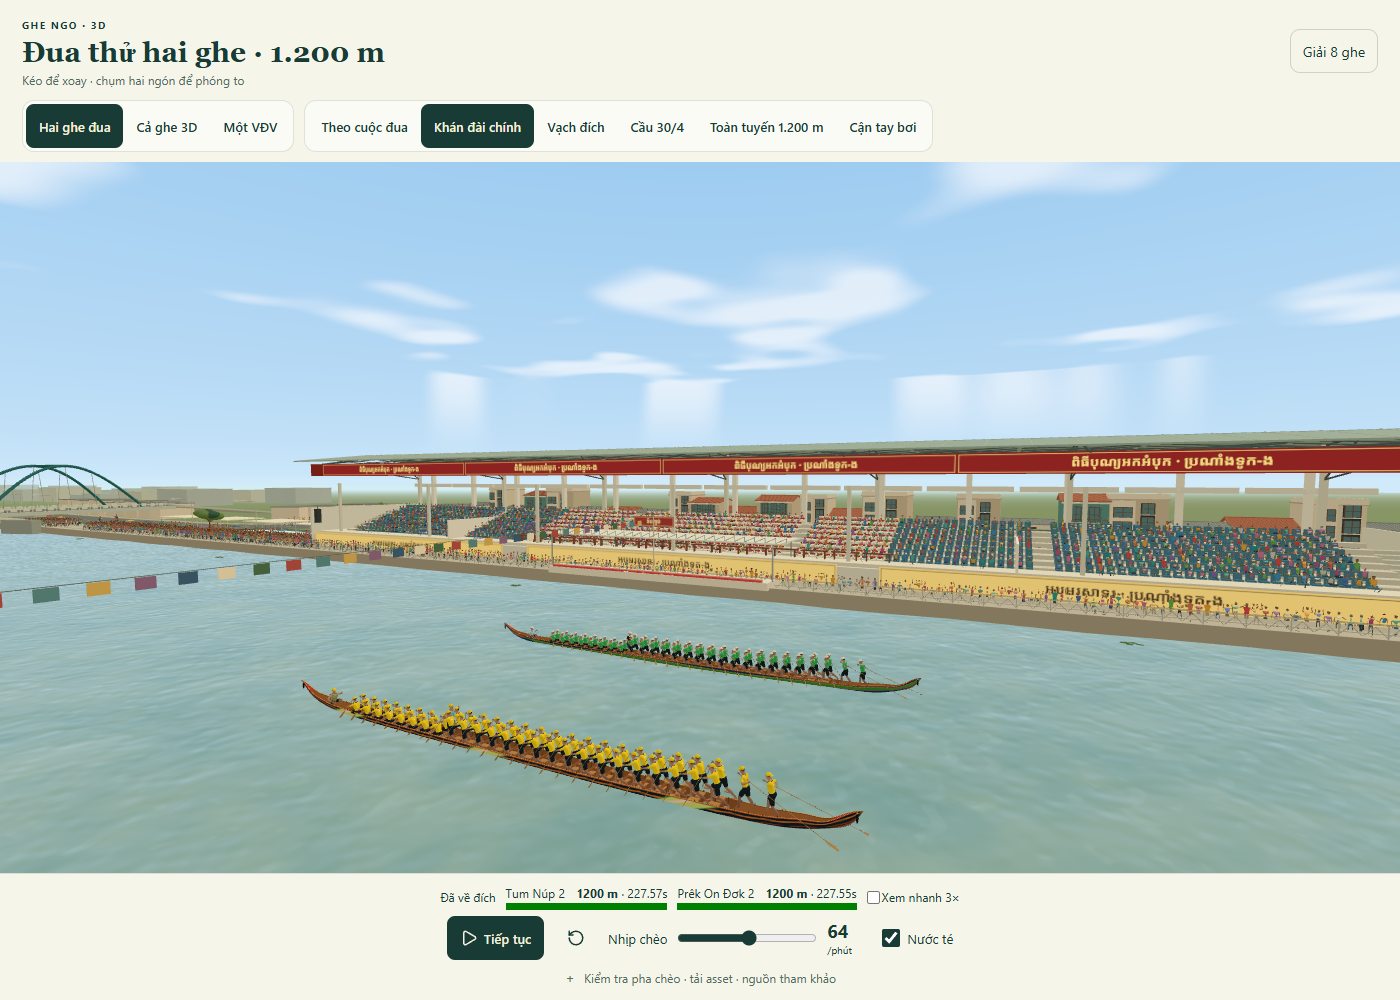
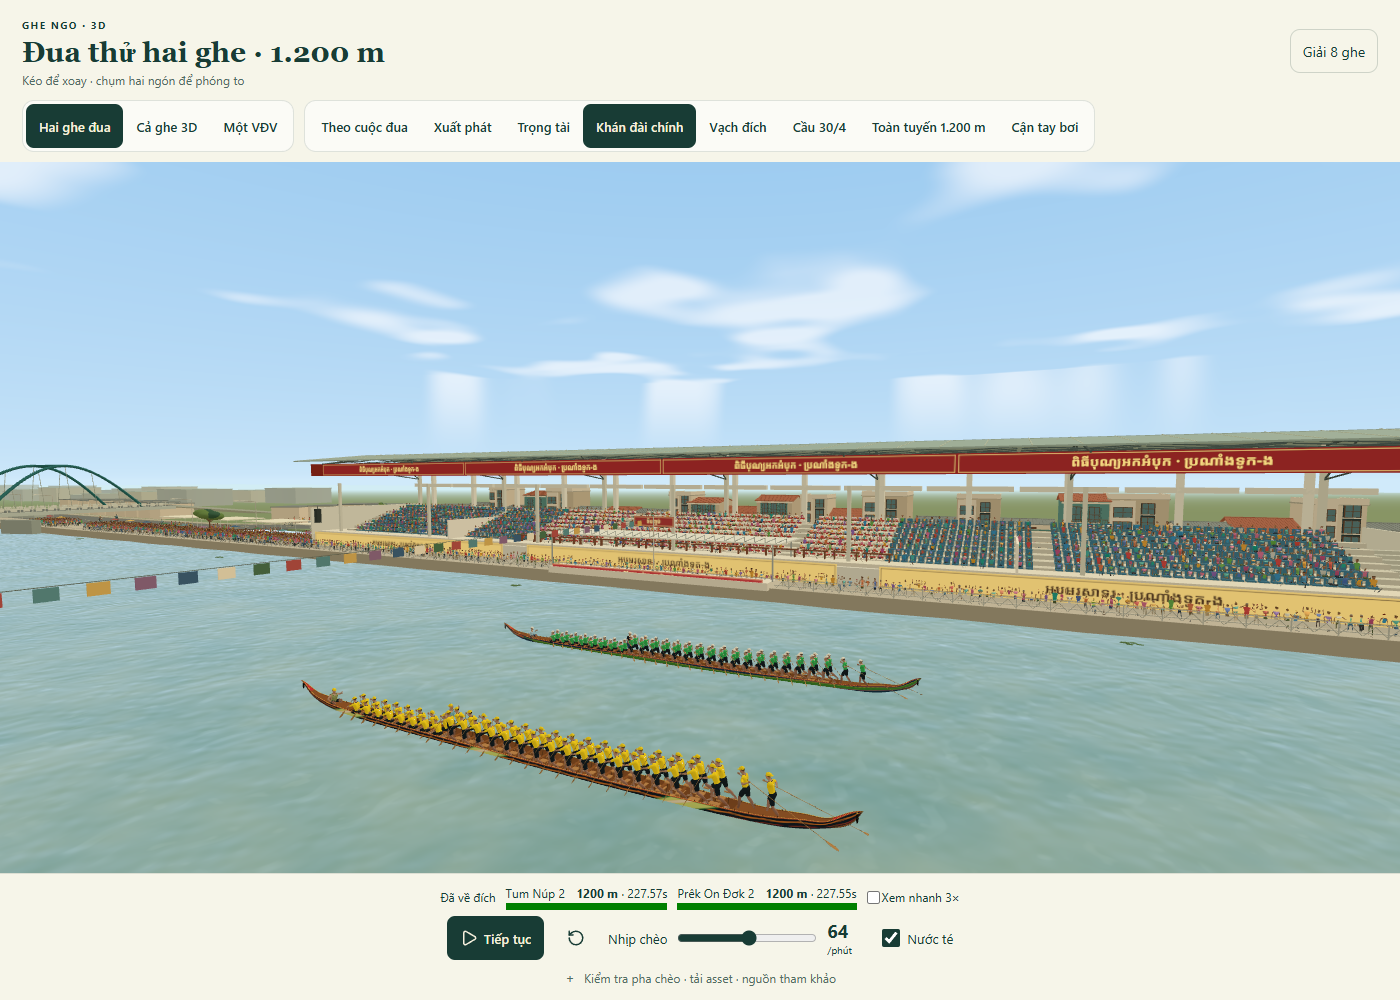
Move upstream bridge beyond start and add Mekong referee cargo boat

Changed region(s): [[0.2764, 0.093, 0.7064, 0.155], [0.7371, 0.124, 0.7679, 0.155]]

diff --git a/src/components/ArtPreview.tsx b/src/components/ArtPreview.tsx
@@ -33,7 +33,7 @@ export function ArtPreview({embedded=false}:{embedded?:boolean}) {
  function togglePlaying(){if(playing)setInspectedPhase(Math.round(clock.current.phase*100));setPlaying(!playing);}
  function inspectPhase(value:number){setPlaying(false);setInspectedPhase(value);clock.current.phase=value/100;}
  async function record(){setRecordError('');setRecording(true);setPlaying(true);try{await runtime.current?.record();}catch(e){setRecordError(e instanceof Error?e.message:String(e));}finally{setRecording(false);}}
- const views=mode==='race'?[['race','Theo cuộc đua'],['stand','Khán đài chính'],['finish','Vạch đích'],['bridge','Cầu 30/4'],['banks','Toàn tuyến 1.200 m'],['crew','Cận tay bơi']]:mode==='athlete'?[['front','Trước'],['side','Ngang'],['back','Sau'],['paddle','Dằm']]:[['boat','Toàn ghe'],['stand','Khán đài chính'],['banks','Hai bờ sông'],['crowd','Khán giả'],['top','Nhìn từ trên'],['crew','Cận tay bơi'],['kneel','Nhóm quỳ'],['bow','Đầu ghe'],['stern','Lái cuối ghe']];
+ const views=mode==='race'?[['race','Theo cuộc đua'],['start','Xuất phát'],['official','Trọng tài'],['stand','Khán đài chính'],['finish','Vạch đích'],['bridge','Cầu 30/4'],['banks','Toàn tuyến 1.200 m'],['crew','Cận tay bơi']]:mode==='athlete'?[['front','Trước'],['side','Ngang'],['back','Sau'],['paddle','Dằm']]:[['boat','Toàn ghe'],['stand','Khán đài chính'],['banks','Hai bờ sông'],['crowd','Khán giả'],['top','Nhìn từ trên'],['crew','Cận tay bơi'],['kneel','Nhóm quỳ'],['bow','Đầu ghe'],['stern','Lái cuối ghe']];
  return <section className={'art-preview'+(embedded?' art-embedded':'')}>
   <header className="art-heading"><div><span className="art-kicker">GHE NGO · 3D</span><h1>{mode==='race'?'Đua thử hai ghe · 1.200 m':mode==='boat'?'Ghe Tum Núp 2 · 54 người':'VĐV Tum Núp 2'}</h1><p>Kéo để xoay · chụm hai ngón để phóng to</p></div><a className="art-back" href={import.meta.env.BASE_URL+'assets/illustrated-v22/race.html?mode=cup'}>Giải 8 ghe</a></header>
   <nav className="art-view-controls" aria-label="Chọn hình ảnh">
@@ -53,7 +53,7 @@ export function ArtPreview({embedded=false}:{embedded?:boolean}) {
     <label className="art-cadence">Chu kỳ <input aria-label="Xem từng pha chèo" disabled={!ready||recording} type="range" min="0" max="100" step="1" value={inspectedPhase} onChange={e=>inspectPhase(Number(e.target.value))}/><strong>{inspectedPhase}%</strong></label>
     <div className="art-control-links"><button disabled={!ready} onClick={()=>runtime.current?.capture()}><Camera size={16}/> Chụp ảnh</button><button disabled={!ready||recording} onClick={record}><Video size={16}/> {recording?'Đang ghi…':'Clip 10s'}</button><a href={import.meta.env.BASE_URL+'assets/athlete-master/athlete-master.glb?sha='+athleteMasterDigest} download><Download size={16}/> GLB VĐV</a></div>
     <p>Ghe dùng chung 8 bộ động tác với bản đua. VĐV đơn dùng cùng bộ động tác đã sửa hướng chèo với cả ghe, gồm cả áo và dằm. Nón, tóc và dằm dựng trong Blender; cơ thể MakeHuman/MPFB CC0. Hai bờ dùng nhân vật Quaternius CC0 có chuyển động và phố 3D. Hai ghe 3D chạy từ xuất phát đến đích đủ 1.200 m. Đây là trận đua thử tự động; giải 8 ghe vẫn ở nút riêng phía trên.</p>
-    <p>Khán đài theo <a href="https://baosoctrang.org.vn/van-hoa-the-thao-du-lich/202411/hao-huc-cho-ngay-khai-hoi-67c01d9/" target="_blank" rel="noreferrer">ảnh thực tế trước và trong khán đài</a>; cự ly theo <a href="https://duaghengo.cantho.gov.vn/uploads/filedinhkem/nvchon_04%20KH-BTC%2009102025%20%28FINAL%29.pdf" target="_blank" rel="noreferrer">kế hoạch giải 2025</a>. Hình dáng theo tư liệu; kích thước công trình và bố trí phố ước lượng. © OpenStreetMap contributors, ODbL, <a href="https://www.openstreetmap.org/copyright" target="_blank" rel="noreferrer">nguồn đường bờ</a>.</p>
+    <p>Khán đài theo <a href="https://baosoctrang.org.vn/van-hoa-the-thao-du-lich/202411/hao-huc-cho-ngay-khai-hoi-67c01d9/" target="_blank" rel="noreferrer">ảnh thực tế trước và trong khán đài</a>; cự ly theo <a href="https://duaghengo.cantho.gov.vn/uploads/filedinhkem/nvchon_04%20KH-BTC%2009102025%20%28FINAL%29.pdf" target="_blank" rel="noreferrer">kế hoạch giải 2025</a>. Toàn cảnh theo <a href="https://vnexpress.net/hang-chuc-nghin-nguoi-xem-dua-ghe-ngo-lon-nhat-mien-tay-4816604.html" target="_blank" rel="noreferrer">ảnh VnExpress bạn cung cấp</a>. Cầu đầu tuyến nằm ngoài cự ly đua; ghe hàng giữa hai làn làm trọng tài xuất phát. Hình dáng theo tư liệu; kích thước công trình và bố trí phố ước lượng. © OpenStreetMap contributors, ODbL, <a href="https://www.openstreetmap.org/copyright" target="_blank" rel="noreferrer">nguồn đường bờ</a>.</p>
     <p><a href="https://thanhnien.vn/chua-tum-nup-doat-cu-dup-vo-dich-ghe-ngo-nam-va-nu-185241115184726094.htm" target="_blank" rel="noreferrer">Ảnh trang phục và dằm</a> · <a href="https://baosoctrang.org.vn/multimedia/202411/media-ghe-ngo-chua-tum-nup-vo-dich-ca-nam-va-nu-f8b6c2a/" target="_blank" rel="noreferrer">Video thi đấu</a></p>
    </div></details>
    {(recording||recordError)&&<p role="status">{recording?'Đang ghi 10 giây…':recordError}</p>}

diff --git a/scripts/check-course-browser.py b/scripts/check-course-browser.py
@@ -59,6 +59,35 @@ with sync_playwright() as p:
     assert min(env['crowd']['peoplePerBank'])>20000 and env['crowd']['variantCount']==11
     assert env['crowd']['outfits']['combinations']>300 and len(env['traffic']['types'])==5
     assert env['nationalFlags']==0 and env['signLanguage']=='km'
+    report['startLayout']=page.evaluate('''()=>{
+      const a=document.querySelector('[data-testid=art-stage]').boatPreview,ship=a.official,decks=[];a.reset();
+      const matrix=a.boat.matrixWorld.clone(),position=a.boat.position.clone(),scale=position.clone(),rotation=a.boat.quaternion.clone();
+      a.river.group.traverse(o=>{if(o.name!=='Maspero_box'||!o.isInstancedMesh)return;for(let i=0;i<o.count;i++){o.getMatrixAt(i,matrix);matrix.decompose(position,rotation,scale);if(Math.abs(scale.x-12)<.001&&Math.abs(scale.y-.78)<.001&&Math.abs(scale.z-115)<.001)decks.push(position.x);}});
+      const startX=a.rigs[0].boat.position.x-15.1,shipPosition=ship.root.position.toArray();let minInnerPaddle=Infinity,maxShipSide=0;
+      ship.floating.traverse(o=>{if(!o.isMesh||o.isInstancedMesh)return;o.geometry.computeBoundingBox();const box=o.geometry.boundingBox;for(const x of [box.min.x,box.max.x])for(const y of [box.min.y,box.max.y])for(const z of [box.min.z,box.max.z]){position.set(x,y,z).applyMatrix4(o.matrixWorld);maxShipSide=Math.max(maxShipSide,Math.abs(position.z));}});
+      for(let phase=0;phase<96;phase++)for(const [lane,r]of a.rigs.entries()){
+       r.render(phase/96,phase/96,{nearest:true,updateOnly:true,connectedKit:true,teamId:lane?'prek-on-dok-2':'tum-nup-2'});
+       for(const p of r.actors.filter(p=>p.paddle)){const mesh=p.paddle.getObjectByName('Race_Paddle'),g=mesh.geometry;g.computeBoundingBox();for(const x of [g.boundingBox.min.x,g.boundingBox.max.x])for(const y of [g.boundingBox.min.y,g.boundingBox.max.y])for(const z of [g.boundingBox.min.z,g.boundingBox.max.z]){position.set(x,y,z).applyMatrix4(mesh.matrixWorld);minInnerPaddle=Math.min(minInnerPaddle,Math.abs(position.z));}}
+      }return {startX,bridgeDeckCentres:decks,shipPosition,maxShipSideM:maxShipSide,minPaddleClearanceM:minInnerPaddle-maxShipSide,officials:ship.stats.crew.demographicCounts,officialCount:ship.stats.officials};
+    }''')
+    start=report['startLayout'];assert len(start['bridgeDeckCentres'])==2
+    assert all(x<1090 or x>start['startX'] for x in start['bridgeDeckCentres']),start
+    assert max(start['bridgeDeckCentres'])-start['startX']>=90,start
+    assert start['shipPosition'][2]==0 and abs(start['shipPosition'][0]-start['startX']-8)<.001
+    assert start['officialCount']==3 and start['officials']['age']=={'adult':3}
+    assert start['minPaddleClearanceM']>2.5,start
+    page.wait_for_timeout(100)
+    assert page.evaluate("document.querySelector('[data-testid=art-stage]').boatPreview.official.stats.signal")=='hold'
+    page.evaluate("document.querySelector('[data-testid=art-stage]').boatPreview.advance(3.2)")
+    page.wait_for_timeout(100)
+    assert page.evaluate("document.querySelector('[data-testid=art-stage]').boatPreview.official.stats.signal")=='go'
+    assert page.evaluate("document.querySelector('[data-testid=art-stage]').boatPreview.official.root.position.toArray()")==start['shipPosition']
+    report['startSignal']='hold -> go, synchronized with countdown'
+    # Capture the starting arrangement while both race boats are still there.
+    page.evaluate("document.querySelector('[data-testid=art-stage]').boatPreview.reset()")
+    for label,name in [('Xuất phát','start-line'),('Trọng tài','official')]:
+        page.get_by_role('button',name=label,exact=True).tap();page.wait_for_timeout(250)
+        page.screenshot(path=str(out/(name+'.png')))
     # Drive the same integrator used by requestAnimationFrame through the whole
     # course; check monotone distance and both bow/finish crossings.
     report['fullRace']=page.evaluate('''()=>{

diff --git a/docs/rowing-course.md b/docs/rowing-course.md
@@ -24,7 +24,7 @@ No generated images were used as evidence. Press photographs are references only
 
 ## Course and fidelity limits
 
-The former bounded inspection reach has been replaced at the root by the existing canonical full-course environment, populated with current compact NPC assets. It contains continuous quays, promenades and roads along the 1,200 m trial; 55,905 placed spectators/sidewalk patrons, 11 animated civilian models, 384 upper/bottom/shoe combinations, 432 detailed frontage lots across five architectural families, five tree silhouettes, food stalls and moving cars, pickups, scooters, motorcycles and bicycles. Distance budgets select detail and visible population; all 55,905 are not drawn simultaneously.
+The former bounded inspection reach has been replaced at the root by the existing canonical full-course environment, populated with current compact NPC assets. It contains continuous quays, promenades and roads along the 1,200 m trial; 55,905 placed spectators/sidewalk patrons, 11 animated civilian models, 384 upper/bottom/shoe combinations, 431 detailed frontage lots across five architectural families, five tree silhouettes, food stalls and moving cars, pickups, scooters, motorcycles and bicycles. Distance budgets select detail and visible population; all 55,905 are not drawn simultaneously.
 
 The main grandstand is authored at 128 m long, eight tiers, with an approximately 16 m ridge, shallow double-pitch roof, structural webs, covered red/white central seats, blue side seats, aisle walls and a separate low centre platform. The roof's clearance above the upper seating was increased to follow the open-frame proportions visible in the reference photographs. It is on the right in the race direction. The opposite covered platform remains lower and structurally distinct. These dimensions, numbers of bays/seats, heights, city facades, bridge heights and positions are estimates, not surveyed measurements or a claim of exact photographic matching.
 
@@ -45,4 +45,16 @@ The course browser gate loads the production build, runs real requestAnimationFr
 
 Desktop Edge tests and screenshots do not establish performance on the owner's physical tablet. Public deployment evidence is recorded only after GitHub Pages succeeds and the shipped scene passes the same public checks.
 
-Verified deployment: runtime source `69ea1d0`, Pages `a9cc91249bf271720eb40e61928e83810d87738f`, [successful Pages run](https://github.com/machxanht/Tuk-Ngo/actions/runs/39023994354). `qa/athlete-master/public-course/` contains the actual public browser report/screenshots, 17 matching asset hashes and canonical/legacy route responses. The public run also completed 120 wall-clock seconds of continuous 3× playback through both finish crossings; the camera-to-target offset stayed stable, both boats reached exactly 1,200 m, and no browser errors were recorded. Three touch-capable tablet viewports passed without scene/control overlap. The local standalone GLB, original eight-role/geometry invariants and three-round cup/browser cache checks passed separately.
+Previous crew/course deployment: runtime source `69ea1d0`, Pages `a9cc91249bf271720eb40e61928e83810d87738f`, [successful Pages run](https://github.com/machxanht/Tuk-Ngo/actions/runs/39023994354). That public run completed 120 wall-clock seconds of continuous 3× playback through both finish crossings; the camera-to-target offset stayed stable, both boats reached exactly 1,200 m, and no browser errors were recorded. Three touch-capable tablet viewports passed without scene/control overlap. The local standalone GLB, original eight-role/geometry invariants and three-round cup/browser cache checks passed separately. Current public-course captures are refreshed for the starting-area correction below; unchanged asset hashes and canonical/legacy route responses are retained.
+
+## Starting area and referee cargo boat
+
+The owner corrected the upstream bridge placement: 30/4 must precede the start rather than cross the race. The game bridge centre is now X=2385, 95 m upstream of the X=2290 start; C247 remains beyond the finish at X=940. Shared bridge positions also move the promenade, crowd and frontage exclusion gaps. The original OSM coordinates are preserved in their source JSON; only the game's bridge placement changes, retaining the observed bridge angles. The 95 m offset is an authored layout estimate, not a surveyed real-world distance.
+
+The owner's [VnExpress panoramic article, Chúc Ly, 15 November 2024](https://vnexpress.net/hang-chuc-nghin-nguoi-xem-dua-ghe-ngo-lon-nhat-mien-tay-4816604.html) was resolved from the supplied share link. Its original aerial and crew photographs were fetched and visually inspected: the open racing reach, packed banks and roofs/trees behind the crowds guide the scene. The photographs depict the 2024 event; they do not establish an exact bridge offset or identify a referee vessel.
+
+The new central referee platform is an original game mesh based on the real timber cargo vessel in [Viet Cruise Tours' Cái Bè gallery](https://vietcruisetours.com/en/tours/CAI-BE-FLOATING-MARKET-MEKONG-ONE-DAY-TOUR-118.html), specifically the inspected [Mekong cargo-boat photograph](https://vietcruisetours.com/uploads/tours/2023_06/mekong-24.jpg). Observed details are the broad curved wooden hull, red bow with painted eyes, plank seams, low working deck, covered cargo area and tyre fenders. A small aft cabin, mooring lines, Khmer referee label and three adult NPC officials complete the requested game conversion. It is not presented as an identified vessel used in the photographed tournament. Dimensions of 14.4 × 3.36 m are game estimates. Photo pixels are not bundled.
+
+The vessel is moored at the centre between both lanes, with its bow about 0.8 m upstream of the race bows. Its gold starting flag and red/green lamp follow the existing countdown. It reuses the already-loaded civilian meshes, GPU animation and fonts, so it needs no additional external model download. Static parts merge by material and all new owned geometry/textures are disposed on exit. The **Xuất phát** and **Trọng tài** buttons show the arrangement and close-up.
+
+The extended production browser gate checks actual instanced bridge decks outside the full race, the vessel's fixed position, three adult officials, countdown signalling and paddle clearance over 96 phases. Both 1,200 m finish crossings, arm clearance, pause/restart, three touch-capable viewport layouts and resource cleanup also pass. `qa/athlete-master/course/` holds local production evidence; public deployment evidence is recorded after publishing.

diff --git a/README.md b/README.md
@@ -1,6 +1,6 @@
 # Tuk-Ngo — hybrid ghe Ngo racing on Maspéro
 
-The canonical tablet entry is **https://machxanht.github.io/Tuk-Ngo/**. It opens two current 3D boats automatically racing 1,200 m, with independent stroke clocks, start countdown, finish times and restart/pause/3× viewing. **Khán đài chính** shows the large right-bank grandstand based on real front/interior photographs; **Toàn tuyến 1.200 m** shows continuous riverbanks and both bridges. There are 55,905 placed animated spectators (distance budgets apply), varied civilian outfits, 432 house lots and moving cars/motorcycles/bicycles. **Cả ghe 3D** retains the 54-person inspection; the two rows keep at least 8 cm of arm surface separation over the sampled stroke. **Giải 8 ghe** opens the preserved cup. Historical tablet links redirect to the same root. See [reference basis, limits and verification](docs/rowing-course.md). Runtime modules have canonical unversioned names in `src/race/`.
+The canonical tablet entry is **https://machxanht.github.io/Tuk-Ngo/**. It opens two current 3D boats automatically racing 1,200 m, with independent stroke clocks, start countdown, finish times and restart/pause/3× viewing. **Khán đài chính** shows the large right-bank grandstand based on real front/interior photographs; **Toàn tuyến 1.200 m** shows continuous riverbanks and both bridges. The upstream bridge sits outside the race, 95 m before the start (estimated game placement). **Xuất phát** and **Trọng tài** show the central timber cargo boat and three animated officials; its signal follows the countdown. There are 55,905 placed animated spectators (distance budgets apply), varied civilian outfits, 431 house lots and moving cars/motorcycles/bicycles. **Cả ghe 3D** retains the 54-person inspection; the two rows keep at least 8 cm of arm surface separation over the sampled stroke. **Giải 8 ghe** opens the preserved cup. Historical tablet links redirect to the same root. See [reference basis, limits and verification](docs/rowing-course.md). Runtime modules have canonical unversioned names in `src/race/`.
 
 The race has three phases: explosive start (0–200 m), cruise (200–950 m), and final sprint (950–1,200 m). Chèo timing gives PERFECT / GOOD / BAD. PERFECT builds the charge for **Đạp**; its four-second final-phase surge requires 60% charge and 24% stamina. AI has its own cadence, stamina and charge. Team identity changes appearance only.
 
